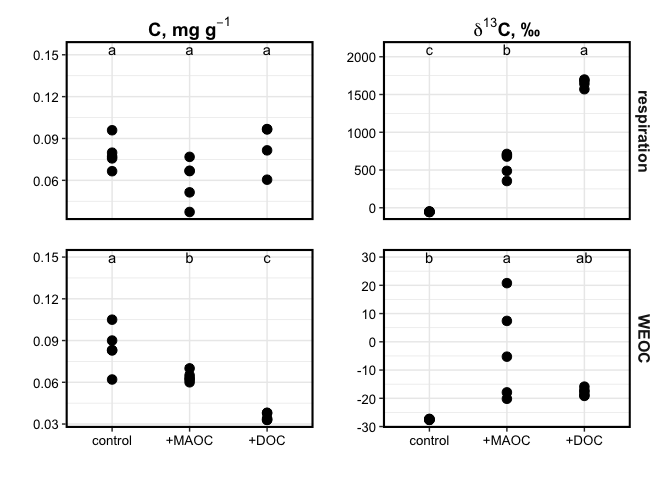
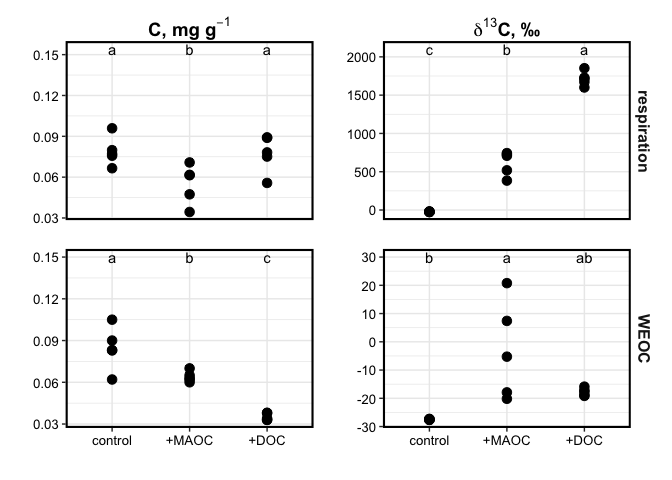
update code for the subset of cores only (only 2-wetting). + update code for new respiration file.

diff --git a/reports/report_priming.md b/reports/report_priming.md
@@ -9,15 +9,15 @@
 
 | treatment | type       | fraction     | C13\_ug\_g\_mean |   se |
 |:----------|:-----------|:-------------|-----------------:|-----:|
-| 2-wetting | control    | respiration  |             0.83 | 0.05 |
+| 2-wetting | control    | respiration  |             0.86 | 0.05 |
 | 2-wetting | control    | weoc         |             0.91 | 0.07 |
 | 2-wetting | control    | weoc\_pellet |           293.33 | 1.95 |
-| 2-wetting | control    | total        |           295.07 | 2.04 |
-| 2-wetting | sorbed-C   | respiration  |             1.07 | 0.16 |
+| 2-wetting | control    | total        |           295.10 | 2.04 |
+| 2-wetting | sorbed-C   | respiration  |             1.00 | 0.15 |
 | 2-wetting | sorbed-C   | weoc         |             0.71 | 0.02 |
 | 2-wetting | sorbed-C   | weoc\_pellet |           286.82 | 4.36 |
-| 2-wetting | sorbed-C   | total        |           288.60 | 4.30 |
-| 2-wetting | solution-C | respiration  |             2.42 | 0.21 |
+| 2-wetting | sorbed-C   | total        |           288.53 | 4.30 |
+| 2-wetting | solution-C | respiration  |             2.29 | 0.17 |
 | 2-wetting | solution-C | weoc         |             0.38 | 0.01 |
 | 2-wetting | solution-C | weoc\_pellet |           272.59 | 3.83 |
-| 2-wetting | solution-C | total        |           274.91 | 3.89 |
+| 2-wetting | solution-C | total        |           275.26 | 3.94 |
